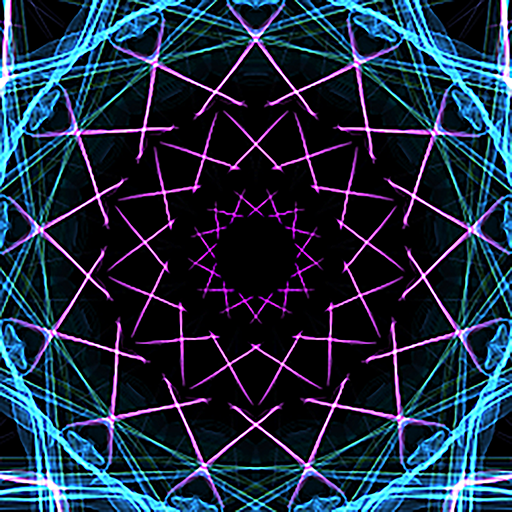
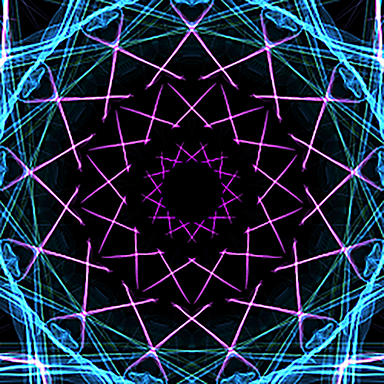
reduce nft images and added placeholder image

diff --git a/src/modules/nftWindow.ts b/src/modules/nftWindow.ts
@@ -77,10 +77,10 @@ export class NFTWindow {
     // Image
     this.nftImage = new UIImage(
       this.container,
-      resources.textures.nftPanel // Default image if nothing is found ...
+      resources.textures.placeholder // Default image if nothing is found ...
     )
-    this.nftImage.sourceWidth = 512
-    this.nftImage.sourceHeight = 512
+    this.nftImage.sourceWidth = 384
+    this.nftImage.sourceHeight = 384
     this.nftImage.width = 384
     this.nftImage.height = 384
     this.nftImage.visible = false

diff --git a/src/resources.ts b/src/resources.ts
@@ -35,6 +35,7 @@ export default {
     textPanel: new Texture("images/ui/textPanel.png"),
     nftPanel: new Texture("images/ui/nftPanel.png"),
     closeButton: new Texture("images/ui/closeButton.png"),
+    placeholder: new Texture("images/ui/placeholder.png"),
   },
   trigger: {
     triggerShape: new utils.TriggerSphereShape(8, Vector3.Zero()), // Trigger sphere with a radius of 8m
